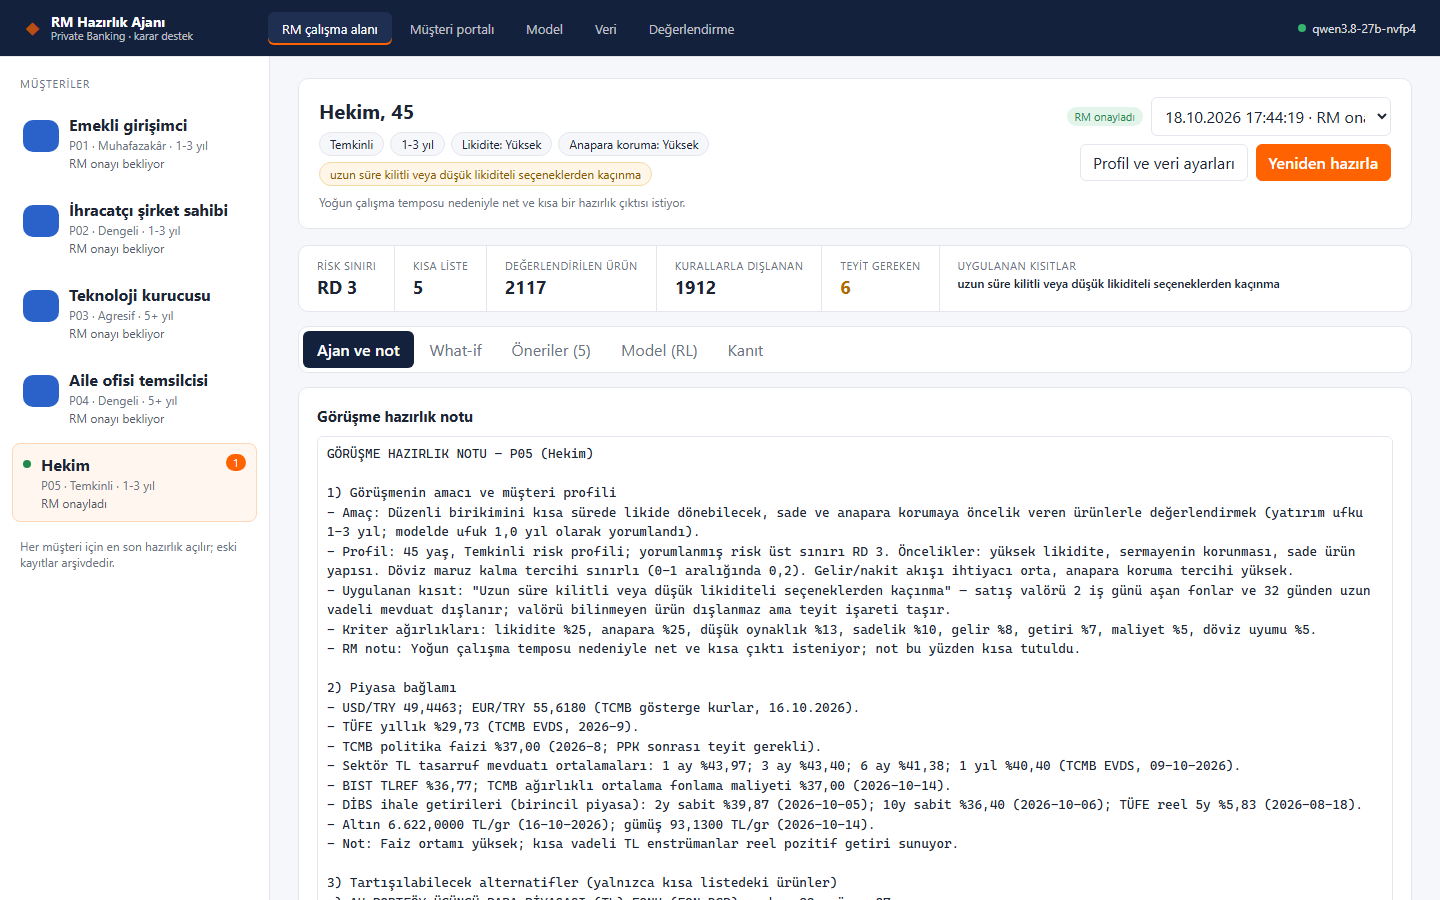
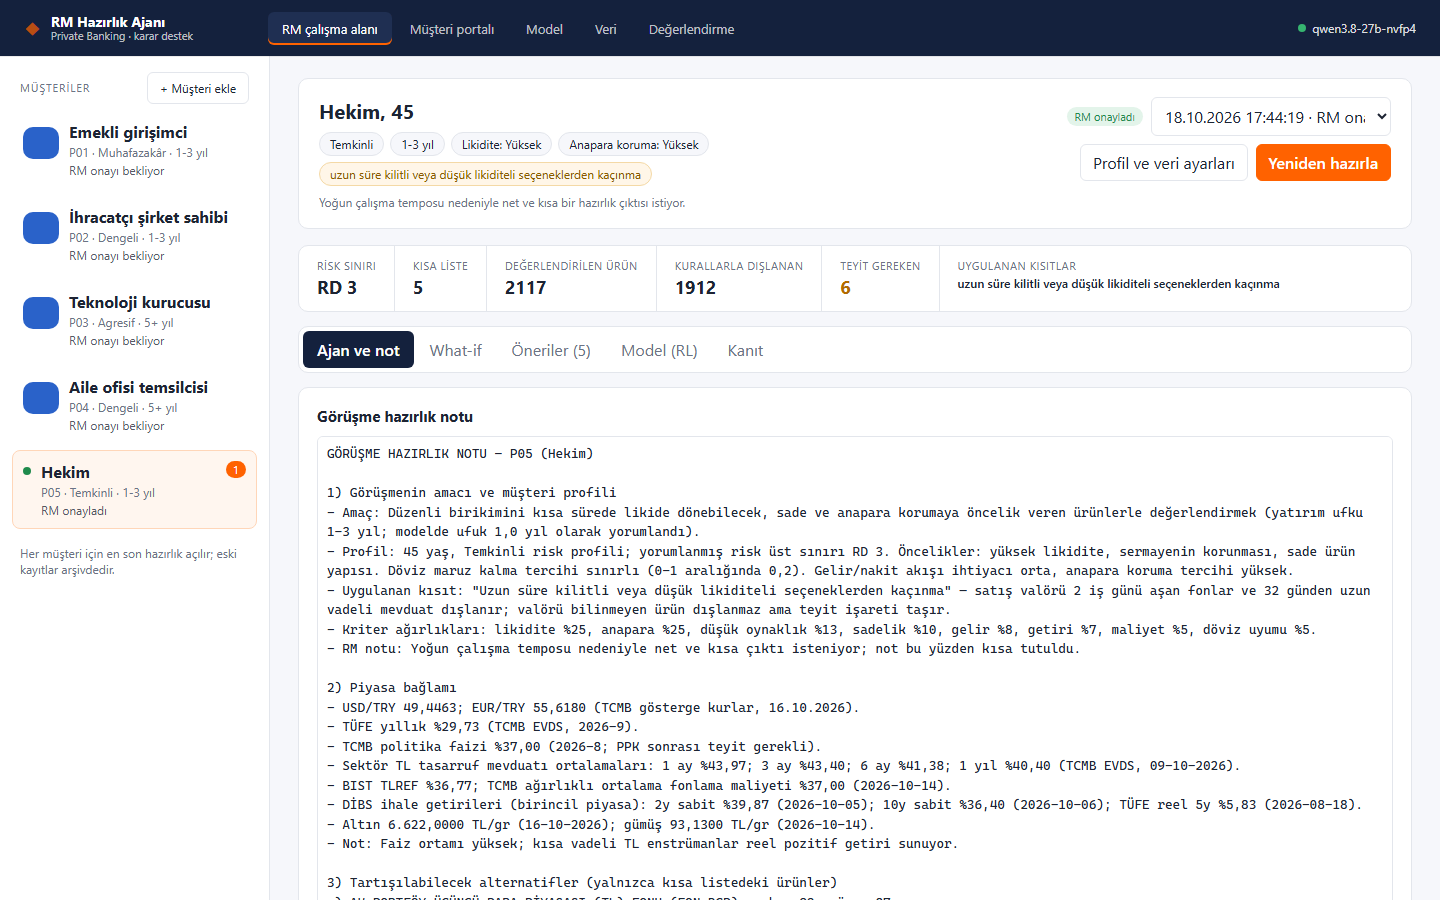
Ekran görüntüleri güncellendi; soğuk başlangıç kilitlenmesi giderildi
- docs/ekran: tüm ekranlar yeniden alındı (veri tabanı paneli, müşteri ekle düğmesi); yeni 09_musteri_ekle
- README ekran tablosu güncellendi
- TEFAS ve RL veri seti önbelleklerine kilit: eşzamanlı ilk istekler aynı ağır veriyi birden çok kez kurup
  sunucuyu dakikalarca kilitliyordu; sunucu açılışında önbellekler arka planda ısıtılıyor (ilk RL özeti ~13 sn)
- Müşteri ekle formunda işaret kutuları düzeltildi; Veri sayfasında 'Eklenen müşteri' tablo etiketi

Changed region(s): [[0.0, 0.0933, 0.1562, 0.6533], [0.1562, 0.4978, 0.1875, 0.5289], [0.125, 0.0933, 0.1562, 0.1244]]

diff --git a/frontend/src/components/DbPanel.tsx b/frontend/src/components/DbPanel.tsx
@@ -12,7 +12,7 @@ interface Status {
 const TABLE_LABEL: Record<string, string> = {
   fon_fiyat: 'Fon fiyatı (gün)', seri_deger: 'Seri değeri', fon_bilgi: 'KAP fon bilgisi', fon_getiri: 'Fon getirisi',
   platform_fon: 'ING platform fonu', mevduat: 'Mevduat oranı', stopaj: 'Stopaj', stopaj_donem: 'Stopaj dönemi', gosterge: 'Gösterge',
-  seri: 'Zaman serisi', benchmark: 'Benchmark', belge: 'Kaynak belgesi', ham_tablo: 'Ham tablo satırı', cekim: 'Çekim kaydı',
+  seri: 'Zaman serisi', benchmark: 'Benchmark', belge: 'Kaynak belgesi', ham_tablo: 'Ham tablo satırı', cekim: 'Çekim kaydı', musteri: 'Eklenen müşteri',
 }
 const fmt = (s?: string | null) => (s ? new Date(s).toLocaleString('tr-TR') : '—')
 const STATUS: Record<string, string> = { basarili: 'başarılı', kismi: 'kısmi', hata: 'hata', calisiyor: 'çalışıyor' }

diff --git a/frontend/src/layout.css b/frontend/src/layout.css
@@ -177,3 +177,5 @@ aside.ws-side { overflow-y: auto; }
 .json-input { font-family: ui-monospace, Consolas, monospace; font-size: 12px; width: 100%; }
 .upload-inline { display: inline-flex; align-items: center; gap: 6px; font-size: 13px; }
 .danger-text { color: var(--err); }
+.choice { justify-content: flex-start; text-align: left; width: auto; }
+.choice input[type="checkbox"] { width: auto; flex: none; padding: 0; }

diff --git a/backend/app/sources/tefas_import.py b/backend/app/sources/tefas_import.py
@@ -6,6 +6,7 @@ Her içe aktarım dosya adı ve zamanıyla kayıt altına alınır; aynı fon/ta
 from __future__ import annotations
 
 import io
+import threading
 import json
 import math
 import re
@@ -343,6 +344,7 @@ def compute_metrics(prices: pd.DataFrame) -> dict[str, dict]:
 
 
 _CACHE: dict = {}
+_CACHE_LOCK = threading.RLock()   # eşzamanlı ilk istekler 1,9 mn satırı birden çok kez okumasın
 
 
 def data_version() -> tuple:
@@ -352,30 +354,32 @@ def data_version() -> tuple:
 
 def load() -> tuple[dict[str, dict], dict]:
     """Kayıtlı fiyat geçmişinden metrikleri ve içe aktarım metasını döndürür (veri değişmedikçe önbellekten)."""
-    meta = _load_meta()
-    key = ("metrics", data_version())
-    if key not in _CACHE:
-        prices = store.fund_prices("tefas_export")
-        if prices.empty:
-            return {}, meta
-        _CACHE.clear()
-        _CACHE[key] = compute_metrics(prices)
-    return _CACHE[key], meta
+    with _CACHE_LOCK:
+        meta = _load_meta()
+        key = ("metrics", data_version())
+        if key not in _CACHE:
+            prices = store.fund_prices("tefas_export")
+            if prices.empty:
+                return {}, meta
+            _CACHE.clear()
+            _CACHE[key] = compute_metrics(prices)
+        return _CACHE[key], meta
 
 
 def price_matrix(codes: list[str]) -> pd.DataFrame | None:
     """Verilen fonların günlük fiyatları (satır: tarih, sütun: fon kodu). Dosya değişmedikçe önbellekten."""
-    key = ("prices", data_version())
-    if key not in _PRICE_CACHE:
-        df = store.fund_prices("tefas_export", ("tarih", "kod", "fiyat"))
-        if df.empty:
-            return None
-        df["tarih"] = pd.to_datetime(df["tarih"])
-        _PRICE_CACHE.clear()
-        _PRICE_CACHE[key] = df.pivot_table(index="tarih", columns="kod", values="fiyat", aggfunc="last").sort_index()
-    wide = _PRICE_CACHE[key]
-    present = [c for c in codes if c in wide.columns]
-    return wide[present].copy() if present else None
+    with _CACHE_LOCK:
+        key = ("prices", data_version())
+        if key not in _PRICE_CACHE:
+            df = store.fund_prices("tefas_export", ("tarih", "kod", "fiyat"))
+            if df.empty:
+                return None
+            df["tarih"] = pd.to_datetime(df["tarih"])
+            _PRICE_CACHE.clear()
+            _PRICE_CACHE[key] = df.pivot_table(index="tarih", columns="kod", values="fiyat", aggfunc="last").sort_index()
+        wide = _PRICE_CACHE[key]
+        present = [c for c in codes if c in wide.columns]
+        return wide[present].copy() if present else None
 
 
 _PRICE_CACHE: dict = {}
@@ -383,11 +387,12 @@ _PRICE_CACHE: dict = {}
 
 def price_names() -> dict[str, str]:
     """Fon kodu → son bilinen fon adı."""
-    key = ("names", data_version())
-    if key not in _PRICE_CACHE:
-        df = store.fund_prices("tefas_export", ("tarih", "kod", "ad"))
-        _PRICE_CACHE[key] = df.dropna(subset=["ad"]).sort_values("tarih").groupby("kod")["ad"].last().to_dict()
-    return _PRICE_CACHE[key]
+    with _CACHE_LOCK:
+        key = ("names", data_version())
+        if key not in _PRICE_CACHE:
+            df = store.fund_prices("tefas_export", ("tarih", "kod", "ad"))
+            _PRICE_CACHE[key] = df.dropna(subset=["ad"]).sort_values("tarih").groupby("kod")["ad"].last().to_dict()
+        return _PRICE_CACHE[key]
 
 
 # --- İkincil kaynak: TEFAS API fiyatları (yalnızca çapraz kontrol) ----------------------------
@@ -397,25 +402,26 @@ API_TOL = 1e-4  # göreli fiyat farkı eşiği (kaynaklar 6 ondalıklı fiyat ve
 
 def api_cross_check() -> tuple[dict[str, dict], dict | None]:
     """Asıl kaynak (elle dışa aktarım) ile ikincil kaynak (API) fiyatlarını ortak günlerde karşılaştırır."""
-    meta = store.document("tefas_api_meta")
-    key = ("api", data_version())
-    if key not in _API_CACHE:
-        a = store.fund_prices("tefas_export", ("tarih", "kod", "fiyat"))
-        b = store.fund_prices("tefas_api", ("tarih", "kod", "fiyat"))
-        if a.empty or b.empty:
-            return {}, None
-        _API_CACHE.clear()
-        m = a.merge(b, on=["kod", "tarih"], suffixes=("", "_api"))
-        m["fark"] = (m["fiyat"] - m["fiyat_api"]).abs() / m["fiyat_api"].abs()
-        out = {}
-        for kod, g in m.groupby("kod"):
-            bad = g[g["fark"] > API_TOL]
-            out[kod] = {"karsilastirilan_gun": int(len(g)), "uyumsuz_gun": int(len(bad)),
-                        "max_goreli_fark": float(g["fark"].max()),
-                        "ornek": None if bad.empty else {"tarih": str(bad.iloc[0]["tarih"]), "dis_aktarim": float(bad.iloc[0]["fiyat"]),
-                                                         "api": float(bad.iloc[0]["fiyat_api"])}}
-        _API_CACHE[key] = out
-    return _API_CACHE[key], meta
+    with _CACHE_LOCK:
+        meta = store.document("tefas_api_meta")
+        key = ("api", data_version())
+        if key not in _API_CACHE:
+            a = store.fund_prices("tefas_export", ("tarih", "kod", "fiyat"))
+            b = store.fund_prices("tefas_api", ("tarih", "kod", "fiyat"))
+            if a.empty or b.empty:
+                return {}, None
+            _API_CACHE.clear()
+            m = a.merge(b, on=["kod", "tarih"], suffixes=("", "_api"))
+            m["fark"] = (m["fiyat"] - m["fiyat_api"]).abs() / m["fiyat_api"].abs()
+            out = {}
+            for kod, g in m.groupby("kod"):
+                bad = g[g["fark"] > API_TOL]
+                out[kod] = {"karsilastirilan_gun": int(len(g)), "uyumsuz_gun": int(len(bad)),
+                            "max_goreli_fark": float(g["fark"].max()),
+                            "ornek": None if bad.empty else {"tarih": str(bad.iloc[0]["tarih"]), "dis_aktarim": float(bad.iloc[0]["fiyat"]),
+                                                             "api": float(bad.iloc[0]["fiyat_api"])}}
+            _API_CACHE[key] = out
+        return _API_CACHE[key], meta
 
 
 _API_CACHE: dict = {}

diff --git a/backend/app/rl_api.py b/backend/app/rl_api.py
@@ -23,6 +23,7 @@ from .sources import tefas_import
 
 router = APIRouter(prefix="/api/rl")
 _DS_CACHE: dict = {}
+_DS_LOCK = __import__("threading").RLock()
 
 META_KEYS = ("olusturma", "sure_dk", "cihaz", "guncelleme", "en_iyi_guncelleme", "en_iyi_dogrulama_odul", "donem",
              "profil_sayisi", "profil_istatistik", "kategoriler", "kategori_rd", "kategori_medyan_fon", "gosterge_adlari",
@@ -35,10 +36,11 @@ def _dataset(feature_set: str | None = None) -> dict:
         _, meta = rc._load_model()
         feature_set = (meta or {}).get("gosterge_seti", "v1")   # çıkarım modelin eğitildiği setle yapılır
     key = (tefas_import.data_version(), config_hash(), feature_set)
-    if key not in _DS_CACHE:
-        _DS_CACHE.clear()
-        _DS_CACHE[key] = rc.build_dataset(feature_set)
-    return _DS_CACHE[key]
+    with _DS_LOCK:   # eşzamanlı ilk istekler aynı ağır veri setini birden çok kez kurmasın
+        if key not in _DS_CACHE:
+            _DS_CACHE.clear()
+            _DS_CACHE[key] = rc.build_dataset(feature_set)
+        return _DS_CACHE[key]
 
 
 def _live_log(n: int = 400) -> list[dict]:

diff --git a/backend/app/main.py b/backend/app/main.py
@@ -29,6 +29,21 @@ app.add_middleware(CORSMiddleware, allow_origins=["http://localhost:5173", "http
                    allow_methods=["*"], allow_headers=["*"])
 
 
+@app.on_event("startup")
+def _warm_up():
+    """Ağır önbellekleri (TEFAS metrikleri, RL veri seti) arka planda ısıtır: ilk RM isteği beklemesin."""
+    import threading
+
+    def work():
+        try:
+            tefas_import.load()
+            from .rl_api import _dataset
+            _dataset()
+        except Exception as exc:  # ısıtma başarısız olursa ilk istek yine kurar
+            print(f"Önbellek ısıtma atlandı: {type(exc).__name__}: {exc}")
+    threading.Thread(target=work, daemon=True).start()
+
+
 @app.get("/api/personas")
 def personas():
     return pipeline.list_personas()

diff --git a/README.md b/README.md
@@ -266,7 +266,8 @@ Tüm liste: [docs/teslim/04_test_ve_ogrenimler.md](docs/teslim/04_test_ve_ogreni
 | **What-if:** "Kur şoku" tutarlı senaryosu, belirsizlik uyarısı | ![](docs/ekran/05_whatif_kur_soku.png) |
 | **Müşteri portalı:** yalnızca RM onaylı özet ve yanıtlar | ![](docs/ekran/06_musteri_portali.png) |
 | **Değerlendirme:** test sonuçları, başarı göstergeleri, hata analizi | ![](docs/ekran/07_degerlendirme.png) |
-| **Veri kaynakları:** TEFAS yükleme, gösterge durumu | ![](docs/ekran/08_veri.png) |
+| **Veri kaynakları:** TEFAS yükleme, veri tabanı ve otomatik toplayıcılar (son çekim, durum, satır), tablo boyutları, gösterge durumu | ![](docs/ekran/08_veri.png) |
+| **Müşteri ekleme:** seçerek (tanınan değerler, öncelik ve kısıt kataloğu) ya da JSON içe aktarım | ![](docs/ekran/09_musteri_ekle.png) |
 
 ## 10. Kurulum ve çalıştırma
 
